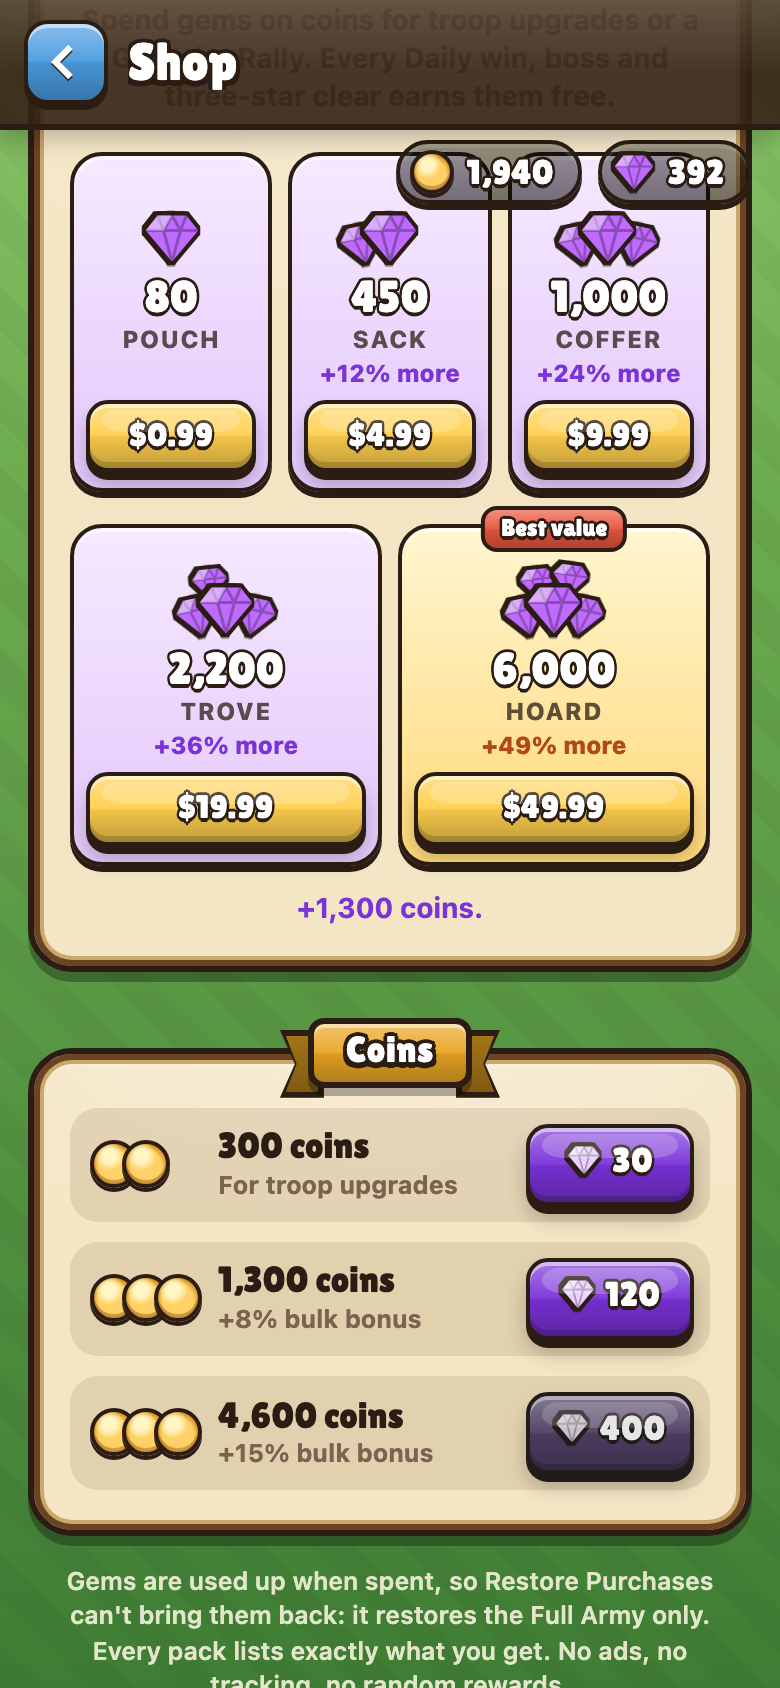
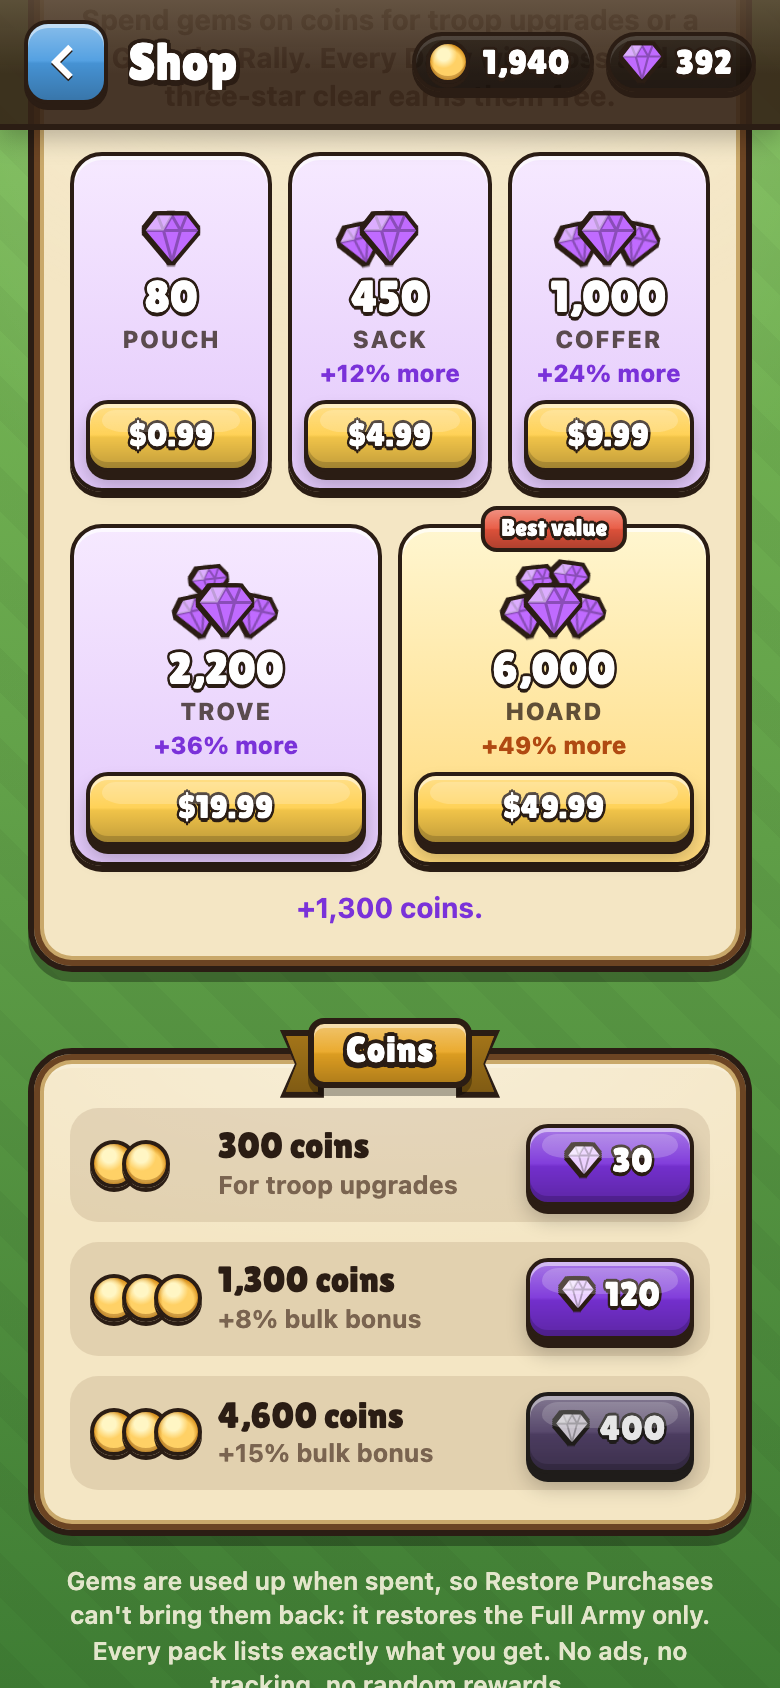
Gem packs in App Store Connect docs (IAP.md section 4, listing, review notes), review screenshot, counters in the Shop header

Changed region(s): [[0.4923, 0.0, 0.9846, 0.1232]]

diff --git a/src/ui/gemshop.ts b/src/ui/gemshop.ts
@@ -25,11 +25,12 @@ function button(label: string | Node, cls: string, fn: () => void) {
 /** Bigger packs show a bigger pile. */
 const pile = (i: number) => el("span", { class: `gem-pile p${i}` }, Array.from({ length: Math.min(5, i + 1) }, (_, k) => gemIcon(`g${k}`)));
 
+/** The coin and gem counters for the Shop header (the fly-ins land on these). */
+export const shopCounters = () => currencyBar("shop-cur");
+const counter = (c: "gems" | "coins") => document.querySelector<HTMLElement>(`.shop-cur .cur-${c}`) ?? document.createElement("span");
+
 /** Everything under the Shop header. */
 export function shopView(store: StoreController, gems: GemShop) {
-  const bar = currencyBar("shop-cur");
-  const gemPill = bar.querySelector<HTMLElement>(".cur-gems")!;
-  const coinPill = bar.querySelector<HTMLElement>(".cur-coins")!;
   const status = el("p", { class: "gem-status", role: "status", "aria-live": "polite" });
   const say = (text: string, tone: "" | "warn" | "good" = "") => { status.textContent = text; status.className = `gem-status ${tone}`; };
   let busy = false;
@@ -89,7 +90,7 @@ export function shopView(store: StoreController, gems: GemShop) {
       say(`+${fmt(n)} ${GEM_NAME}. Thank you!`, "good");
       buzz("success");
       c.card.classList.remove("gem-pop"); void c.card.offsetWidth; c.card.classList.add("gem-pop");
-      void flyInto(c.card.querySelector(".gem-pile")!, gemPill, "gems", n);
+      void flyInto(c.card.querySelector(".gem-pile")!, counter("gems"), "gems", n);
       refreshCoins();
     } else if (r.status === "pending") say(`Waiting for approval. The ${GEM_NAME.toLowerCase()} arrive by themselves once it goes through.`);
     else if (r.status === "cancelled") say("");
@@ -101,7 +102,7 @@ export function shopView(store: StoreController, gems: GemShop) {
     if (!grid.isConnected) { offCredit(); return; }
     say(`+${fmt(cr.gems)} ${GEM_NAME} arrived. Thank you!`, "good");
     const card = cards.get(cr.productId)?.card ?? grid;
-    void flyInto(card, gemPill, "gems", cr.gems);
+    void flyInto(card, counter("gems"), "gems", cr.gems);
     refreshCoins();
   });
 
@@ -112,7 +113,7 @@ export function shopView(store: StoreController, gems: GemShop) {
       earn("coins", b.coins, `bundle:${b.id}`);
       buzz("light");
       say(`+${fmt(b.coins)} coins.`, "good");
-      void flyInto(row, coinPill, "coins", b.coins);
+      void flyInto(row, counter("coins"), "coins", b.coins);
       refreshCoins();
     });
     const row = el("div", { class: "coin-row", "data-bundle": b.id }, [
@@ -127,7 +128,6 @@ export function shopView(store: StoreController, gems: GemShop) {
 
   load();
   return el("div", { class: "gem-shop" }, [
-    bar,
     fullArmyOffer(store),
     el("section", { class: "gem-section panel" }, [
       ribbon(GEM_NAME, "gem-ribbon"),

diff --git a/tests/gems.test.ts b/tests/gems.test.ts
@@ -243,3 +243,30 @@ describe("gem sinks", () => {
     expect(canRally({ hp: 50, maxHp: 400, over: false })).toBe(false);
   });
 });
+
+describe("gem packs in the App Store Connect copy", () => {
+  const read = (p: string) => readFileSync(new URL(`../${p}`, import.meta.url), "utf8");
+  const meta = JSON.parse(read("store/metadata.json"));
+  it("lists every pack with the app's ids and gem amounts, inside Apple's limits", () => {
+    expect(meta.gemPacks.type).toBe("Consumable");
+    expect(meta.gemPacks.packs.map((p: { productId: string }) => p.productId)).toEqual(GEM_PACKS.map((p) => p.id));
+    for (const [i, g] of meta.gemPacks.packs.entries()) {
+      expect(g.gems).toBe(GEM_PACKS[i].gems);
+      expect(g.price).toBe(`USD ${GEM_PACKS[i].usd}`);
+      expect(g.referenceName.length).toBeLessThanOrEqual(64);
+      expect(g.displayName.length).toBeLessThanOrEqual(30);
+      expect(g.description.length).toBeLessThanOrEqual(45);
+      expect(g.description).not.toMatch(/\$|USD|\d+\.\d\d/);
+    }
+  });
+  it("is written into store/IAP.md and says Restore covers the Full Army only", () => {
+    const md = read("store/IAP.md");
+    for (const g of meta.gemPacks.packs) for (const v of [g.productId, g.referenceName, g.displayName, g.description]) expect(md).toContain(v);
+    expect(md).toMatch(/Restore Purchases does not bring gems back/);
+    expect(meta.reviewNotes).toMatch(/consumables are used up and cannot be restored/);
+  });
+  it("still promises no ads, no tracking and no random rewards", () => {
+    expect(meta.description).toMatch(/no ads, no tracking/i);
+    expect(meta.description).toMatch(/no loot boxes, no random rewards/);
+  });
+});

diff --git a/src/main.ts b/src/main.ts
@@ -25,7 +25,7 @@ import { settleRewards } from "./economy/rewards";
 import { creditPurchase } from "./economy/wallet";
 import { GemShop } from "./store/gems";
 import { currencyBar } from "./ui/currency";
-import { rallyOffer, shopView, showRewards } from "./ui/gemshop";
+import { rallyOffer, shopCounters, shopView, showRewards } from "./ui/gemshop";
 
 const app = document.getElementById("app")!;
 let game: GameScreen | null = null;
@@ -568,7 +568,7 @@ const cap = (s: string) => s[0].toUpperCase() + s.slice(1);
 // ---------------------------------------------------------------- shop / paywall
 function shopScreen() {
   clear();
-  screen("shop-screen", header("Shop", title), shopView(store, gemShop)); // [gems] Full Army, gem packs, coin bundles
+  screen("shop-screen", header("Shop", title, shopCounters()), shopView(store, gemShop)); // [gems] counters, Full Army, gem packs, coin bundles
 }
 
 /** The Full Army offer as a sheet over the current screen (gates open it); redraws the screen once it's owned. */

diff --git a/src/ui/gems.css b/src/ui/gems.css
@@ -24,7 +24,8 @@
 
 /* ---- Shop */
 .shop-screen .gem-shop { width: min(440px, 100%); margin: 0 auto; display: flex; flex-direction: column; gap: 18px; }
-.gem-shop > .shop-cur { position: sticky; top: calc(var(--st) + 58px); z-index: 2; margin: -6px 0 -4px; }
+.screen-head > .cur-bar.shop-cur { flex: none; gap: 6px; }
+.shop-cur .cur-pill { min-width: 0; height: 30px; padding-right: 10px; }
 .gem-shop .shop-offer.owned .shop-heroes, .gem-shop .shop-offer.owned .shop-perks, .gem-shop .shop-offer.owned .shop-pitch { display: none; }
 .gem-section { margin-top: 20px; padding-top: 30px; gap: 12px; }
 .gem-section > .ribbon { margin-top: -48px; }

diff --git a/store/LISTING.md b/store/LISTING.md
@@ -60,8 +60,9 @@ FIVE WAYS TO PLAY
 • Breakpoint: 18 one-battle puzzles against a fixed board with fixed gold. Find the win, then find a cheaper one for the stars.
 • Skirmish: any rival, any settings, any starting health.
 
-FREE TO START, ONE UNLOCK
-Download free and play the first two acts of the campaign, the first Breakpoint puzzles, the Daily Challenge and Skirmish, for as long as you like. One purchase, Full Army, opens every act, the Gauntlet and every Breakpoint puzzle for good. It is a one-time unlock: no subscriptions, no coins, no energy, no loot boxes. Restore Purchases brings it back on a new iPhone.
+FREE TO START, FAIR TO PLAY
+Download free and play the first two acts of the campaign, the first Breakpoint puzzles, the Daily Challenge and Skirmish, for as long as you like. One purchase, Full Army, opens every act, the Gauntlet and every Breakpoint puzzle for good, and Restore Purchases brings it back on a new iPhone.
+Gems are optional. You earn them free from three-star clears, bosses, Daily wins and streaks, and spend them on coins for troop upgrades or a Gauntlet Rally. Gem packs in the Shop speed that up, and every pack says exactly what you get: no subscriptions, no energy, no loot boxes, no random rewards.
 
 PLAYS YOUR WAY
 • Short rounds that fit a spare minute, with 2× and 3× battle speed
@@ -69,7 +70,7 @@ PLAYS YOUR WAY
 • No ads, no tracking, no timers
 • Your progress stays on your device
 ```
-2948/4000.
+3175/4000.
 
 ## What's New in This Version
 
@@ -78,9 +79,10 @@ Daily Challenge: a new board every day, the same for every player, with a streak
 A new act: Act 8, six new levels and a new boss.
 Four new units, each with its own Ascended ability.
 Full Army: Muster is now free to start with Acts 1 and 2, Skirmish, the Daily Challenge and the first Breakpoint puzzles. A one-time Full Army unlock opens every act, the Gauntlet and every puzzle. If you already reached Act 3, you keep everything you had, no purchase needed.
+Gems: earn them free from three-star clears, bosses, Daily wins and streaks, or buy a pack in the Shop. Spend them on coins for troop upgrades or a Gauntlet Rally.
 Sunlit new art across units, arenas and menus.
 ```
-533/4000. App Store Connect only asks for What's New on an update. If 1.0 was never released, this is the first version and the field does not appear: skip it.
+697/4000. App Store Connect only asks for What's New on an update. If 1.0 was never released, this is the first version and the field does not appear: skip it.
 
 ## Keywords
 
@@ -140,6 +142,8 @@ Battles are top-down fantasy units (swords, bows, bombs, lightning) knocking eac
 
 One non-consumable: **Full Army** (`co.inflect.muster.fullarmy`), USD 4.99 (United States base price; let Apple set the other storefronts from it). Every field to enter in App Store Connect is in `store/IAP.md`.
 
+Plus 5 consumable gem packs (`co.inflect.muster.gems.*`): 80 Gems US$0.99, 450 Gems US$4.99, 1,000 Gems US$9.99, 2,200 Gems US$19.99, 6,000 Gems US$49.99. Also in `store/IAP.md` (section 4). Restore Purchases covers the Full Army only; consumables can't be restored.
+
 ## App Privacy
 
 **Data Not Collected.** App Privacy > Get Started > 'Do you or your third-party partners collect data from this app?' = No, we do not collect data from this app. Then Publish. Still true with the Full Army purchase: Apple takes the payment outside the app, and the unlock is checked and remembered on the device only. Apple's rule: data processed only on device is not 'collected' (https://developer.apple.com/support/app-privacy-on-the-app-store/). No tracking. No third-party SDKs (StoreKit is Apple's own). No analytics, ads or crash reporting.
@@ -157,6 +161,8 @@ Muster: Tactics is a single-player strategy game. No account or sign-in, no ads,
 
 Free: Campaign Acts 1 and 2, the Daily Challenge, Skirmish (AI Lab) and the first Breakpoint puzzles.
 In-app purchase: one non-consumable, Full Army (co.inflect.muster.fullarmy). It opens every campaign act, the Gauntlet and all Breakpoint puzzles. Players who had already reached Act 3 before this version keep that access without buying.
+
+Also five consumable gem packs (co.inflect.muster.gems.pouch, .sack, .coffer, .trove, .hoard). Gems are a premium currency spent on coin bundles (troop upgrades) and a once-per-run Gauntlet Rally. Each pack gives a fixed, stated number of gems; nothing in the game gives random paid rewards. Gems are also earned free by playing. Restore Purchases restores the Full Army only: consumables are used up and cannot be restored, and the Shop says so. Gem packs: title screen > Shop, below Full Army.
 
 To test the purchase with a sandbox account: on the title screen tap Shop, then tap the Full Army price button and confirm. The price shown comes from the App Store. You can also tap Campaign and open Act 3: the locked act card offers the same purchase. Restore Purchases is on the Shop screen.
 

diff --git a/store/IAP.md b/store/IAP.md
@@ -1,4 +1,4 @@
-# Muster: Tactics: Full Army in-app purchase
+# Muster: Tactics: in-app purchases (Full Army and gem packs)
 
 Generated from `store/metadata.json` (`inAppPurchase`) by `npm run release:config`. Edit that, not this file.
 What the player gets: the free download has Campaign Acts 1 and 2, the Daily Challenge, Skirmish and the first Breakpoint puzzles.
@@ -54,3 +54,44 @@ Then submit the version as usual (`store/RELEASE-CHECKLIST.md` step 7). The purc
 - **Simulator, no Apple account needed:** `npm run ios:open`, pick an iPhone simulator, press Run. The shared App scheme already uses `ios/App/Muster.storekit` (Edit Scheme > Run > Options > StoreKit Configuration), so the Shop shows US$4.99 and buy, cancel, Ask to Buy and Restore all work locally. Debug > StoreKit > Manage Transactions refunds or deletes the test purchase. The plugin's own StoreKit tests run from `ios/MusterStore/TestHost` (command at the top of its project.yml).
 - **Sandbox on your iPhone:** App Store Connect > Users and Access > **Sandbox** > Test Accounts > **+**. On the iPhone, Settings > Developer > Sandbox Apple Account, sign in with it, then buy Full Army from a TestFlight or Xcode build. Sandbox purchases are free.
 - **Restore:** delete the app, reinstall, open Shop > Restore Purchases. Full Army comes back. (Game progress does not; it lives on the device.)
+
+## 4. Gem packs (five consumables, 15 min)
+
+Gems are the optional premium currency: free players earn them by playing, and these packs sell them.
+The app decides how many gems each product id gives (`src/economy/gems.ts`) and shows StoreKit's own price, so prices can change here without a new build.
+Each pack is credited once per App Store transaction and only then finished, so an interrupted purchase is credited on the next launch.
+**Restore Purchases does not bring gems back.** Consumables are used up; the Shop says so under the packs.
+
+For each row: Apps > Muster: Tactics > Monetization > **In-App Purchases** > **+** > Type **Consumable**, then the Reference Name and Product ID, **Create**, then fill the page.
+
+| Product ID | Reference Name | Price (US base) | Display Name | Description |
+| --- | --- | --- | --- | --- |
+| `co.inflect.muster.gems.pouch` | `Gems Pouch (80)` (15/64) | USD 0.99 | `80 Gems` (7/30) | `A pouch of 80 gems for the Shop` (31/45) |
+| `co.inflect.muster.gems.sack` | `Gems Sack (450)` (15/64) | USD 4.99 | `450 Gems` (8/30) | `A sack of 450 gems for the Shop` (31/45) |
+| `co.inflect.muster.gems.coffer` | `Gems Coffer (1000)` (18/64) | USD 9.99 | `1,000 Gems` (10/30) | `A coffer of 1,000 gems for the Shop` (35/45) |
+| `co.inflect.muster.gems.trove` | `Gems Trove (2200)` (17/64) | USD 19.99 | `2,200 Gems` (10/30) | `A trove of 2,200 gems for the Shop` (34/45) |
+| `co.inflect.muster.gems.hoard` | `Gems Hoard (6000)` (17/64) | USD 49.99 | `6,000 Gems` (10/30) | `A hoard of 6,000 gems for the Shop` (34/45) |
+
+The same on every pack:
+
+| Section | Field | Enter |
+| --- | --- | --- |
+| Availability | Countries or Regions | All countries and regions (same as the app) |
+| Price Schedule | Base price | the row's price; let Apple set the other storefronts from it |
+| App Store Localization (English (U.S.)) | Display Name, Description | the row's values |
+| Family Sharing | | Not offered for consumables (the switch isn't shown). |
+| Tax Category | | Match to parent app (the default) |
+| Review Information | Screenshot | `store/screenshots/iap-gems-review.png` (the Shop's Gems section with prices, 1320x2868). Re-shoot with `PORT=<port> node tools/gems-shots.mjs` while the dev server runs. The same image works for all five. |
+| Review Information | Review Notes | the block below |
+| Promotional Image | | None |
+
+Review Notes (same for every pack):
+
+```
+Gems are a consumable premium currency. Each pack gives the fixed number of gems in its name, credited the moment the purchase completes. Gems buy coin bundles (coins buy troop upgrades) and a once-per-run Gauntlet Rally; nothing gives random rewards. Gems are also earned free from three-star clears, bosses, Daily Challenge wins and streaks. To find them: title screen > Shop, the Gems section below Full Army. Restore Purchases restores the Full Army only, as consumables can't be restored; the Shop says so.
+```
+511/4000.
+
+Then on the 1.1.0 version page, **In-App Purchases and Subscriptions** > **+**: tick all five gem packs as well as Full Army.
+
+Test: the simulator's `ios/App/Muster.storekit` already lists the five packs (US$0.99 to US$49.99), so buy, cancel, Ask to Buy and failure all work without an account. Debug > StoreKit > Manage Transactions shows each pack finished once its gems are saved.
